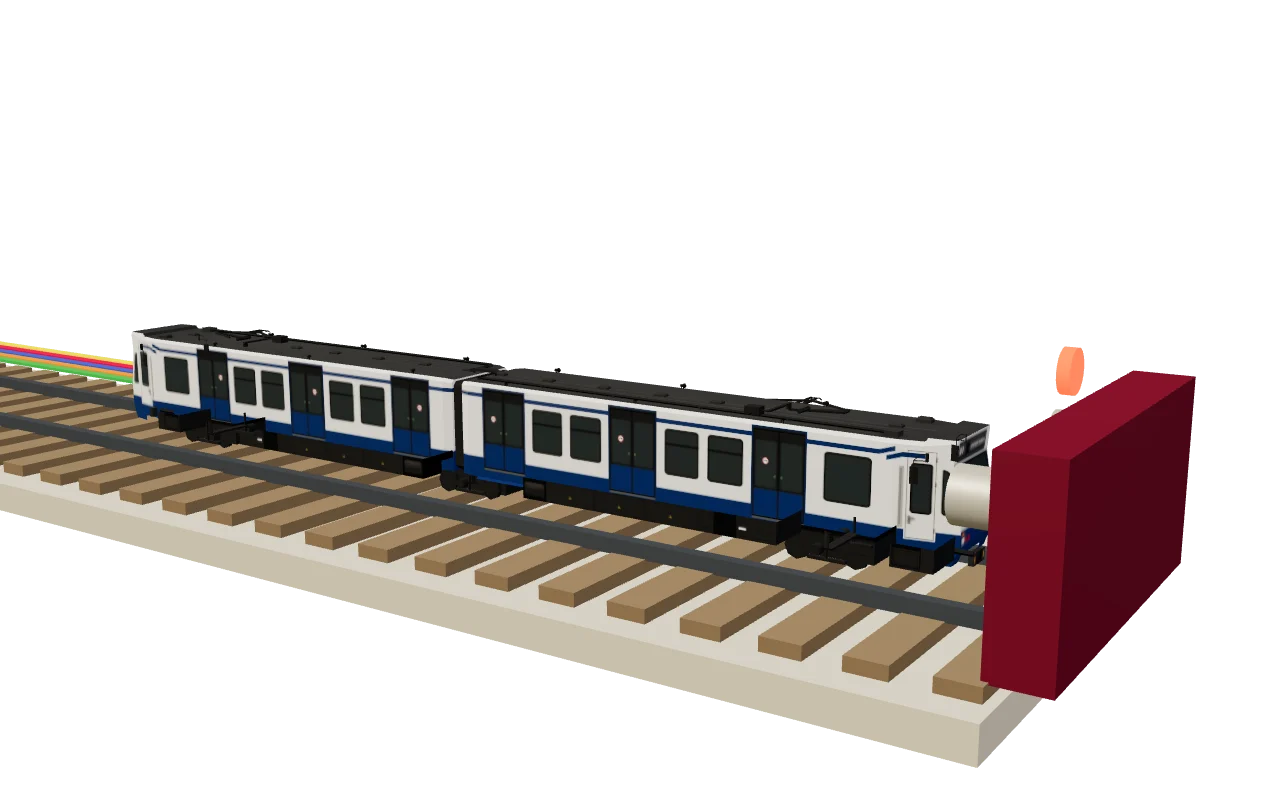
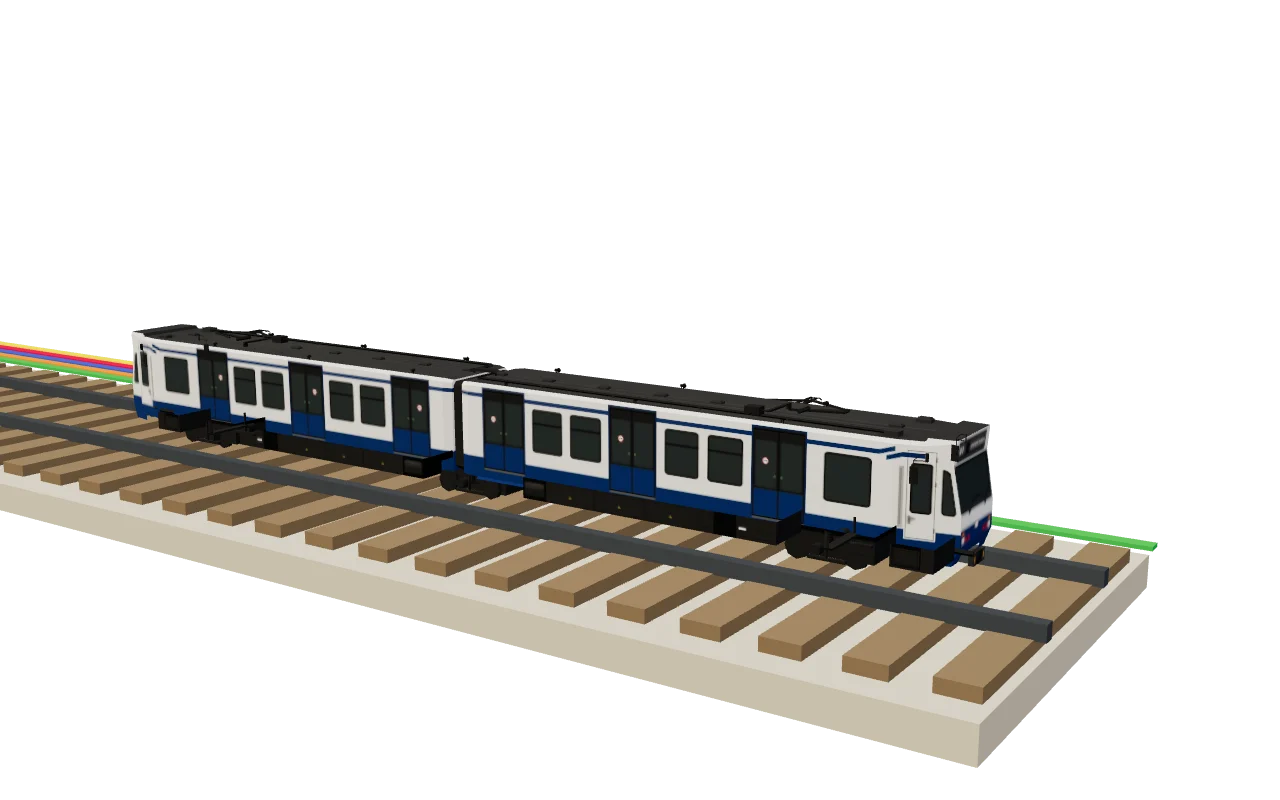
design(404): no buffer stop; the train stops at the end of the rails
The red buffer-stop block didn't match the train's detail. Removed with
its buffers, lamp and the bump against them; the train now just comes
to a stop near the end of the track. Still image re-rendered, labels
and the no-image drawing updated.

Changed region(s): [[0.7188, 0.4375, 0.9375, 0.875]]

diff --git a/frontend/src/notfound/scene.ts b/frontend/src/notfound/scene.ts
@@ -3,7 +3,6 @@ import {
   Box3,
   BoxGeometry,
   Color,
-  CylinderGeometry,
   DirectionalLight,
   Group,
   HemisphereLight,
@@ -22,8 +21,8 @@ import { GLTFLoader } from "three/addons/loaders/GLTFLoader.js";
 import { OrbitControls } from "three/addons/controls/OrbitControls.js";
 
 /**
- * The 404 page's 3D scene: an S1/S2 metro (retired in 2024) rolls up to the
- * buffer stop at the end of a track and settles with a small bump. Loaded
+ * The 404 page's 3D scene: an S1/S2 metro (retired in 2024) rolls in and
+ * comes to a stop at the end of the track. Loaded
  * only after the page's text, and only where it can run well (see page.ts).
  * Draws a frame only while something moves, and not at all off screen.
  */
@@ -49,7 +48,6 @@ const LINE_COLORS = ["#3CB44B", "#F58231", "#4363D8", "#E6194B", "#FFE119"];
 
 const TRAIN_LENGTH = 10;
 const ARRIVE_MS = 3600;
-const BUMP_MS = 900;
 
 const easeOutCubic = (t: number) => 1 - (1 - t) ** 3;
 
@@ -108,26 +106,8 @@ function buildTrack(dark: boolean): { group: Group; stopX: number } {
     group.add(stripe);
   });
 
-  // Buffer stop at the end of the line.
+  // Where the train comes to rest: its nose a little before the rails end.
   const stopX = 1.2;
-  const frame = new MeshStandardMaterial({ color: "#7b2132", roughness: 0.6 });
-  const block = new Mesh(new BoxGeometry(0.5, 1.6, 3.4), frame);
-  block.position.set(stopX + 0.9, 0.7, 0);
-  group.add(block);
-  const bufferMat = new MeshStandardMaterial({ color: "#d9d4c7", metalness: 0.4, roughness: 0.5 });
-  for (const z of [-1.1, 1.1]) {
-    const buffer = new Mesh(new CylinderGeometry(0.22, 0.22, 0.5, 20), bufferMat);
-    buffer.rotation.z = Math.PI / 2;
-    buffer.position.set(stopX + 0.45, 1.0, z);
-    group.add(buffer);
-  }
-  const lamp = new Mesh(
-    new CylinderGeometry(0.18, 0.18, 0.1, 20),
-    new MeshStandardMaterial({ color: "#ff3b30", emissive: new Color("#ff3b30"), emissiveIntensity: 1.6 }),
-  );
-  lamp.rotation.z = Math.PI / 2;
-  lamp.position.set(stopX + 0.62, 1.75, 0);
-  group.add(lamp);
 
   return { group, stopX };
 }
@@ -201,11 +181,6 @@ export async function mount(stage: HTMLElement, opts: SceneOptions): Promise<Sce
     const t = now - arriveStart;
     if (t < ARRIVE_MS) {
       train.position.x = startX + (restX - startX) * easeOutCubic(Math.max(0, t) / ARRIVE_MS);
-      moving = true;
-    } else if (t < ARRIVE_MS + BUMP_MS) {
-      // A small, damped bump against the buffers.
-      const b = (t - ARRIVE_MS) / BUMP_MS;
-      train.position.x = restX - 0.12 * Math.sin(b * Math.PI * 2.5) * (1 - b) ** 2;
       moving = true;
     } else {
       train.position.x = restX;

diff --git a/frontend/src/seo/notFound.ts b/frontend/src/seo/notFound.ts
@@ -64,7 +64,7 @@ export function notFoundHtml(assets: NotFoundAssets): string {
   ).join("");
   const still = assets.hasPoster
     ? `<img class="stage-still" src="${MODEL.poster}" alt="" width="1280" height="800" decoding="async">`
-    : `<svg class="stage-still" viewBox="0 0 640 260" aria-hidden="true">${track}<rect x="584" y="120" width="16" height="80" rx="3" fill="#7b2132"/><circle cx="592" cy="110" r="7" fill="#ff3b30"/></svg>`;
+    : `<svg class="stage-still" viewBox="0 0 640 260" aria-hidden="true">${track}</svg>`;
   const credit = (lang: "nl" | "en") =>
     lang === "nl"
       ? `3D-model: <a href="${MODEL.source}">${MODEL.title}</a> door <a href="${MODEL.authorUrl}">${MODEL.author}</a>, <a href="${MODEL.licenseUrl}">${MODEL.license}</a>. Aangepast: gecomprimeerd voor het web.`
@@ -186,7 +186,7 @@ export function notFoundHtml(assets: NotFoundAssets): string {
       </div>
 
       <figure class="stage-wrap">
-        <div class="stage" data-stage data-model="${MODEL.url}" role="group" aria-label="Een S1/S2-metro bij het stootblok aan het eind van het spoor / An S1/S2 metro at the buffer stop at the end of the track">
+        <div class="stage" data-stage data-model="${MODEL.url}" role="group" aria-label="Een S1/S2-metro aan het eind van het spoor / An S1/S2 metro at the end of the track">
           ${still}
           <span class="progress" data-progress aria-hidden="true"></span>
           <p class="loading" aria-hidden="true"><span data-lang="nl">De metro komt eraan…</span><span data-lang="en" lang="en">The metro is on its way…</span></p>

diff --git a/README.md b/README.md
@@ -45,7 +45,7 @@ A second page at **[amsterdammetro.nl/reisinfo](https://amsterdammetro.nl/reisin
 - 🗺 **Reisplanner**: direct and one-transfer journeys. The departure station also appears on the board
 - 🚦 **Lijnen and Netwerkstatus**: line diagrams with the trains running right now, plus punctuality per line
 - ♿ **Step-free stations**: a ♿ in station lists and search, step-free status on every station card with a link to GVB's lift faults, and an "avoid stairs" option in the planner that names any station on a journey that may need stairs. A station counts as step-free only once it is checked on GVB's station page; anything unconfirmed shows as not step-free. `scripts/seed-accessibility.sh` adds OpenStreetMap's tag as a hint for checking. The data is checked regularly: see [docs/step-free-stations.md](docs/step-free-stations.md)
-- 🚉 **A page per station** (`/reisinfo/zuid/`, `/en/reisinfo/bijlmer-arena/`): built as static HTML with the station's lines, directions, GVB's step-free rating and GVB station page, so search engines can read it; the live board loads on top. Unknown addresses get a real 404 page that suggests the station you meant, with a station search and a 3D S1/S2 metro (retired in 2024) rolling up to the buffer stop. See [docs/seo-tidy-plan.md](docs/seo-tidy-plan.md)
+- 🚉 **A page per station** (`/reisinfo/zuid/`, `/en/reisinfo/bijlmer-arena/`): built as static HTML with the station's lines, directions, GVB's step-free rating and GVB station page, so search engines can read it; the live board loads on top. Unknown addresses get a real 404 page that suggests the station you meant, with a station search and a 3D S1/S2 metro (retired in 2024) rolling in to the end of the track. See [docs/seo-tidy-plan.md](docs/seo-tidy-plan.md)
 - ⭐ **Favourites, recent stations and shareable links** (`/reisinfo/noord/?van=Noord&naar=Gein`), kept only in your browser
 - 🕰 **A Dutch station clock** in Amsterdam time, and a **light/dark toggle** in the header
 - 🔎 **Smart search**: "arena", "52", "cs naar zuid" or "dichtbij" for the nearest station
